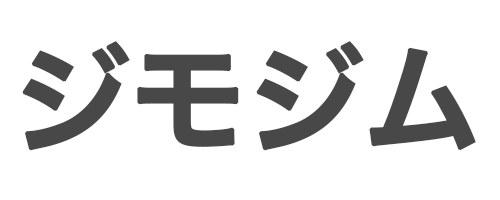
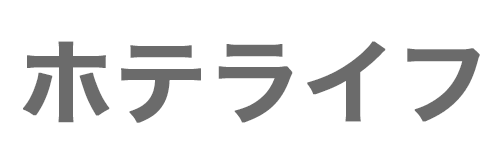
new

Changed region(s): [[0.03, 0.2083, 0.96, 0.7738]]

diff --git a/app/helpers/application_helper.rb b/app/helpers/application_helper.rb
@@ -1,10 +1,10 @@
 module ApplicationHelper
   def default_meta_tags
     {
-      site: "地元で最良のジムを見つけるなら｜ジモジム",
-      title: "<%= yield(:title) || eatery-japan %>" ,
-      description: "地元で最良のジムを見つけるならジモジム",
-      keywords:    "ジム,地元",
+      site: "私が賃貸をやめた理由｜ホテルライフ/アドレスホッパー",
+      title: "<%= yield(:title) || ホテルライフ %>" ,
+      description: "2020年8月。私、奥山健太は経営者ながらにアドレスホッパーとして生きる道を決めました。何故賃貸を辞めたのか、ホテルライフを初めた体験記をお伝えします。",
+      keywords:    "ホテルライフ,アドレスホッパー",
       canonical: request.original_url,  # 優先されるurl
       charset: "UTF-8",
       #icon: [href: image_url('favicon.ico')]
